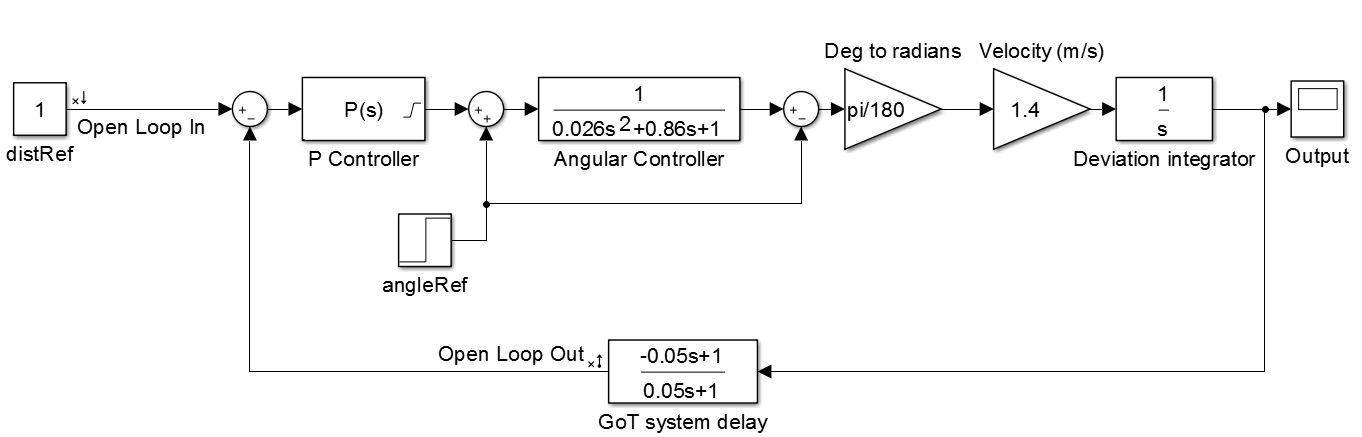
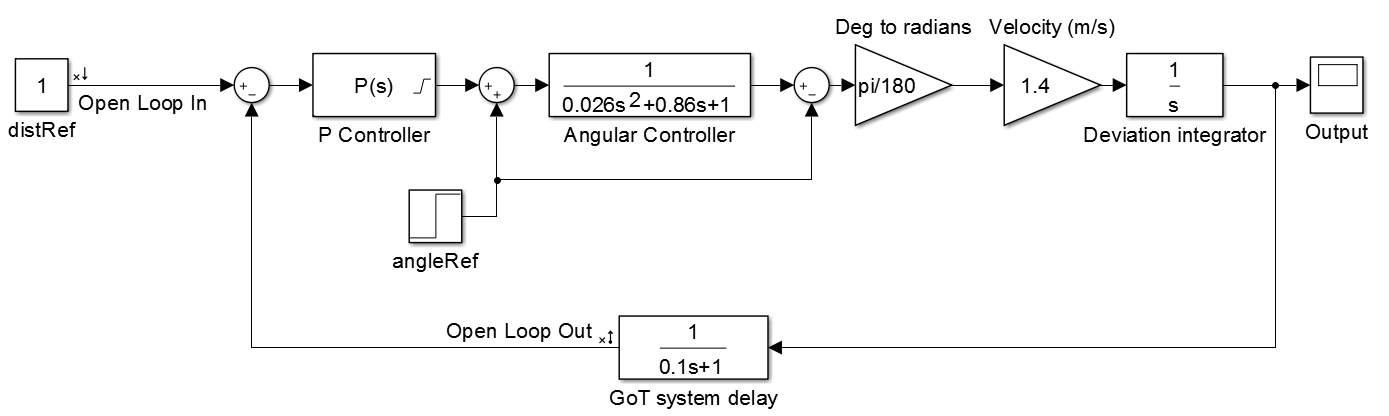
Finished distance controller section

Changed region(s): [[0.0, 0.0312, 1.0, 0.4062], [0.185, 0.75, 0.9251, 1.0], [0.2775, 0.4062, 0.5859, 0.6875]]

diff --git a/Chapters/Chapter4/DistanceController.tex b/Chapters/Chapter4/DistanceController.tex
@@ -2,7 +2,7 @@
 A distance controller will now be designed, to complement the angular controller.
 As concluded in \todo{secref}, a deviation from the planned line, will cause the vehicle to drive at a parallel line, next to the planned. The deviation will be calculated from the position provided by the GoT system. As the deviation is a function of the error angle integrated over time it is assumed, that a P controller will be sufficient to handle this function, just as in the Angular controller. The controller will therefore be based on a P controller, and iterated until results are satisfactory. 
 
-As real-world test data is not available, caused by the magnetometer not working in the room with the GoT system installed, the controller will be designed and simulated in Simulink. As a starting point, the proportional gain will be set at 1, and the controller will be designed based on bode plots.
+As real-world test data is not available, caused by the magnetometer not working in the room with the GoT system installed, the controller will be designed and simulated in Simulink. As a starting point, the proportional gain will be set at 1, and the controller will be designed based on bode plots and step responses.
 
 The proposed controlling scheme can be seen in \figref{SteeringSimulink}
 
@@ -12,6 +12,14 @@ The proposed controlling scheme can be seen in \figref{SteeringSimulink}
 \caption{Initial Distance Controller}
 \label{SteeringSimulink}
 \end{figure}
+As seen in the figure, the Angular Controller is placed in the center of the loop, as this will be responsible for changing the vehicle's angle, to what the distance loop calculates to be necessary. A reference angle, \emph{angleRef} is added to the output of the P controller, representing the angle of the line to follow. The following three stages (Deg to radians, Velocity and Deviation integrator) are taken directly from the steering model \figref{fig:steeringLineFollowingModel}.
+
+According to \ref{GoTSystem}, the GoT system provides position updates every 100ms. To model this delay, the same approximation as used for the servo delay in \secref{directionalExtention}, will be implemented:
+$$\frac{1}{\lambda\cdot\text{s}+1}\leadsto\frac{1}{\SI{0,1}\cdot\text{s}+1}
+$$
+The input to the loop is the wanted deviation from the line. This should ideally be zero, but is set to 1m in the simulation. This might seem strange, but it is done to force the system to react to an initial error; the error integrator starts at zero when the simulation is started, so an input of zero would imply that the vehicle is not deviating from the planned route, and nothing will happen.
+The error could of cause be added at the output, but since the system is assumed linear, a step from 1m to 0m error, should be the same as the opposite.
+The resulting step response can be seen in \figref{SimulationSteeringP1}
 
 \begin{figure}[H]
   \centering
@@ -20,9 +28,12 @@ The proposed controlling scheme can be seen in \figref{SteeringSimulink}
   {
     \includegraphics[width=1.4\textwidth]{figures/distanceStep1.pdf}
   }
-  \caption{A plot illustrating a simulated step-response of the approximated velocity model (the blue line) and a measured step-response of the vehicle (the red line).}
+  \caption{A simulated step-response of the system correcting a 1 meter offset}
   \label{SimulationSteeringP1}
 \end{figure}
+As seen on the figure, the system takes around 240 seconds, or 4 minutes, to correct the error. This leaves a lot of room for improvements.
+
+Using the Linear Analysis function of Simulink, a Bode plot is made from the open loop system. The resulting plot can be seen in \figref{SimulationSteeringB1}
 \begin{figure}[H]
   \centering
  	%Trim margins @:   left        bottom       right       top
@@ -30,9 +41,13 @@ The proposed controlling scheme can be seen in \figref{SteeringSimulink}
   {
     \includegraphics[width=1.4\textwidth]{figures/distanceBode1.pdf}
   }
-  \caption{A plot illustrating a simulated step-response of the approximated velocity model (the blue line) and a measured step-response of the vehicle (the red line).}
+  \caption{An open loop Bode plot of the system.}
   \label{SimulationSteeringB1}
 \end{figure}
+To improve the system response, the first thing to be done is to find a better proportional gain than 1. One way to do this, is to optimise for a phase margin of 45 degrees. As seen by the marks on the plots, the gain is \SI{-33,78}dB at the 45 degree point (225-45=180). To get 0 dB gain at this point, the proportional gain will therefore be increased by  \SI{33,78}dB:
+$$\text{K}_\text{p}=10^{\frac{\SI{33,78}{}}{20}} = \SI{48,87}{}$$
+This value is entered in the simulation, and a new step response is made, see \figref{SimulationSteeringP2}
+
 \begin{figure}[H]
   \centering
  	%Trim margins @:   left        bottom       right       top
@@ -40,9 +55,18 @@ The proposed controlling scheme can be seen in \figref{SteeringSimulink}
   {
     \includegraphics[width=1.4\textwidth]{figures/distanceStep2.pdf}
   }
-  \caption{A plot illustrating a simulated step-response of the approximated velocity model (the blue line) and a measured step-response of the vehicle (the red line).}
+  \caption{Step response with new $\text{K}_\text{p}$.}
   \label{SimulationSteeringP2}
 \end{figure}
+As seen in the figure, the response has improved dramatically, and the system reaches the target in approximately 2 seconds. Unfortunately it overshoots and rings, before settling after around 10 seconds. This settling time is a substantial improvement from 4 minutes, but there is still room for further improvements. If the overshoot is removed, the system will reach the target in just 2 seconds.
+As seen in the Modeling and Control course on the 5th semester of Electronic and IT at Aalborg University \cite{KMNielsen}, a way to remove an overshoot is to increase the high frequency gain. This can be done by adding a differentiator to the controller, which will then become a PD controller. According to \todo{book ref}, a PD controller is rarely used in real life, as it is extremely sensitive to noise, and a lead compensator is recommended instead.
+
+A lead compensator adds a zero to the system, which cancels one of the poles in the system. This lowers the phase shift, improving the phase margin, and increases the gain at higher frequencies. At the same time, a pole is added at an even higher frequency, in order to ensure stability.
+
+The sampling period of the loop is limited to 100ms by the GoT system. According to the Nyquist-Shannon sampling theorem, a signal needs to be sampled by at least twice the signal bandwidth. This limits the upper frequency of which the pole in the lead compensator can be placed. To ensure the theorem is fulfilled, the pole is given a time constant of \SI{0,3}{s}. This in turn limits the frequency of the zero - if the zero is placed too close to the pole, they will cancel each other out. On the other hand, it is desired to place the zero as high as possible, in order to not change the low frequency gain, and at the same time to affect the existing poles in the system as much as possible. A compromise must be made, and the zero is given a time constant of 1 second.
+
+A bode plot is made with the lead compensator added to the system, see  \figref{SimulationSteeringB2}. 
+
 \begin{figure}[H]
   \centering
  	%Trim margins @:   left        bottom       right       top
@@ -50,9 +74,12 @@ The proposed controlling scheme can be seen in \figref{SteeringSimulink}
   {
     \includegraphics[width=1.4\textwidth]{figures/distanceBode2.pdf}
   }
-  \caption{A plot illustrating a simulated step-response of the approximated velocity model (the blue line) and a measured step-response of the vehicle (the red line).}
+  \caption{Bodeplot with Lead compensation}
   \label{SimulationSteeringB2}
 \end{figure}
+The 0 dB frequency has increased from \SI{0,94}{}rad/s to \SI{1,24}{}rad/s, and the phase margin is now: $$\SI{245,6}{}-180=\SI{65,6}{^\circ}$$
+As predicted, the lead compensator has increased the gain at higher frequencies and improved the phase margin. This leaves room to increase the proportional gain even further, but before doing this, another step response is made on the system, see \figref{SimulationSteeringP3}.
+
 \begin{figure}[H]
   \centering
  	%Trim margins @:   left        bottom       right       top
@@ -60,6 +87,7 @@ The proposed controlling scheme can be seen in \figref{SteeringSimulink}
   {
     \includegraphics[width=1.4\textwidth]{figures/distanceStep3.pdf}
   }
-  \caption{A plot illustrating a simulated step-response of the approximated velocity model (the blue line) and a measured step-response of the vehicle (the red line).}
+  \caption{Step response with lead compensation}
   \label{SimulationSteeringP3}
 \end{figure}
+As seen on the step response, the system reaches the target in approximately two seconds, and the ringing has been reduced to less than \SI{3}{cm}. This is considered acceptable, as it is desirable to keep the increased phase margin. This because the whole loop is based on an approximated model, with no real data to back it up. The extra phase margin will provide a better chance of a stable system in the real world.

diff --git a/Chapters/Chapter3/fSteeringModel.tex b/Chapters/Chapter3/fSteeringModel.tex
@@ -40,7 +40,7 @@ As stated in \appref{app:steeringGainTest}, the servomotor's gain, \si{K_s}, and
 \end{figure}
 
 %%- Directional Model : Extended -%%
-\subsection{Extension of the Directional Model}
+\subsection{Extension of the Directional Model}\label{directionalExtention}
 
 The first model describes in a simple manner how the mechanical part of the steering system functions. However, it can be extended to include the time delay caused by the servo. According to \secref{Servo}, the servo is controlled by a PWM signal with a period of 30 ms. This means, that it will not be possible to update the servo angle continuously, but only in discrete time steps of 30 ms. These steps will be implemented in the model as a sampling delay.\\
 As seen in the Modeling and Control course on the 5th semester of Electronic and IT at Aalborg University \cite{KMNielsen}, the delay of a signal, \si{u(t)}, is usually described in frequency domain by an exponential factor:
